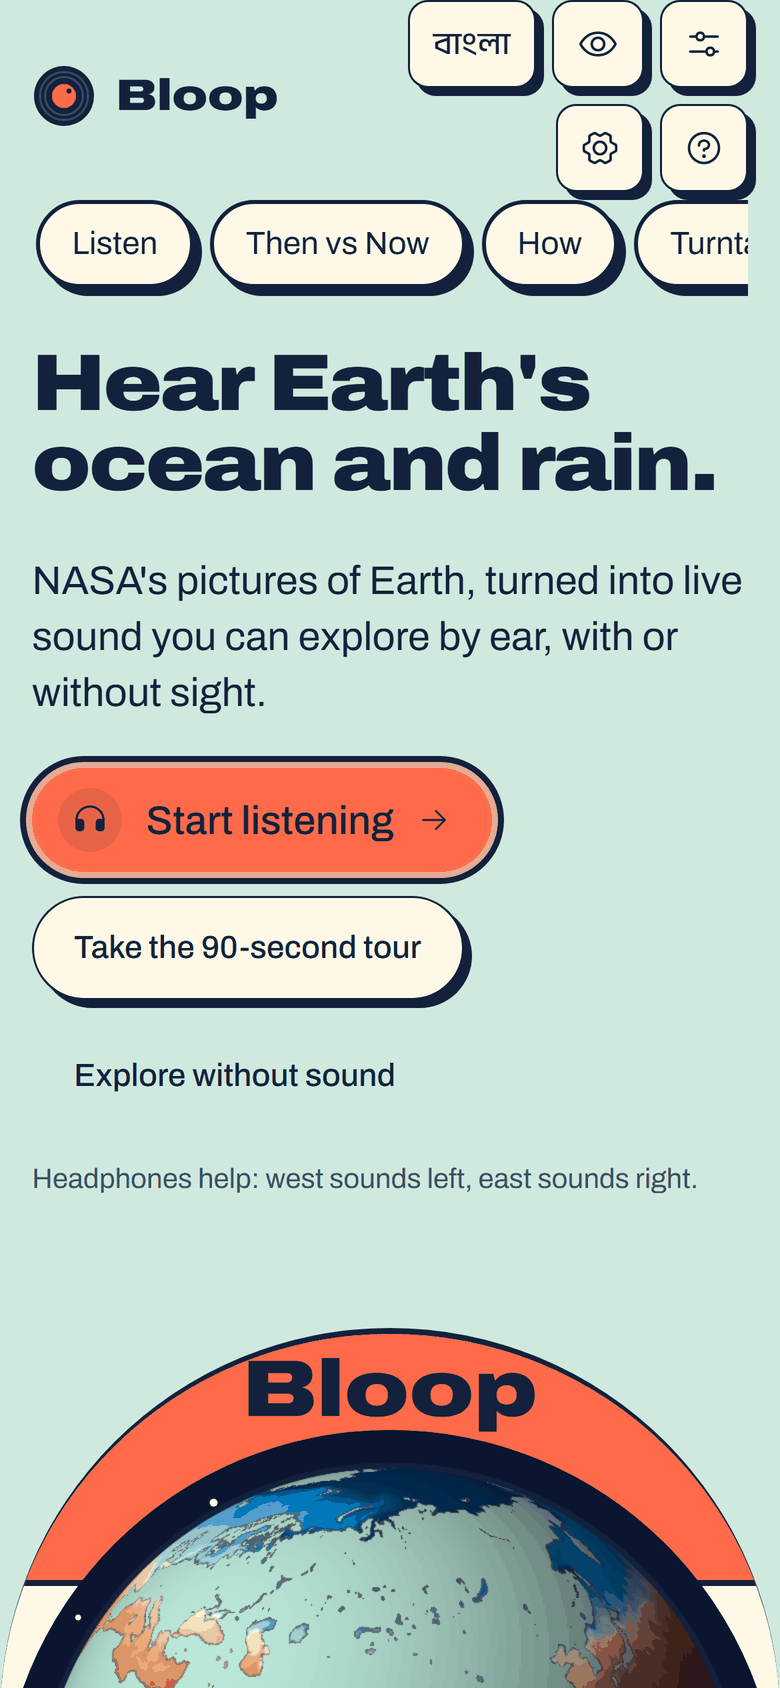
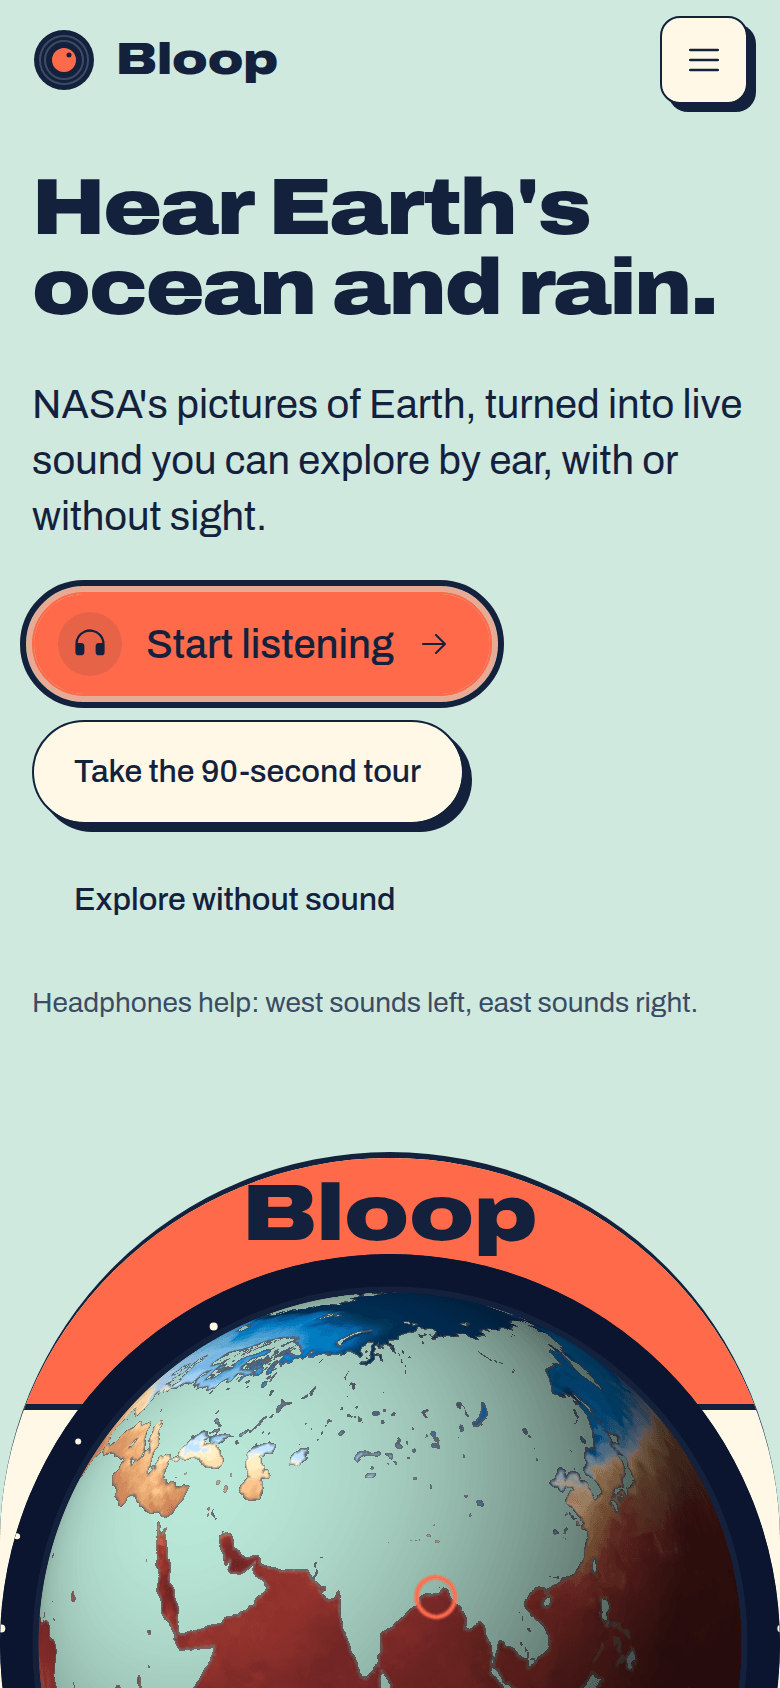
readme phone screenshot update

diff --git a/README.md b/README.md
@@ -204,8 +204,8 @@ flowchart LR
 
 <table>
   <tr>
-    <td width="50%" align="center"><img src="docs/readme/phone-home.png" alt="Home on a phone: the heading, Start listening, the tour and Explore without sound, with the jukebox below" width="78%"></td>
-    <td width="50%" align="center"><img src="docs/readme/phone-listen.png" alt="Listen on a phone: the map in the cabinet with the needle on the Bay of Bengal, and the player below with Pause sound, the value 29.8 degrees and the west to east slider" width="78%"></td>
+    <td width="50%" align="center"><img src="docs/readme/phone-home.png" alt="Home on a phone: the menu button, the heading, Start listening, the tour and Explore without sound, with the jukebox below" width="78%"></td>
+    <td width="50%" align="center"><img src="docs/readme/phone-listen.png" alt="Listen on a phone: the map in the cabinet with the needle on the Bay of Bengal, and the player below with Pause sound, the value 29.2 degrees and the west to east slider" width="78%"></td>
   </tr>
   <tr>
     <td colspan="2" align="center"><sub><b>On a phone:</b> the same app, with 44 px touch targets and the player within thumb reach.</sub></td>
